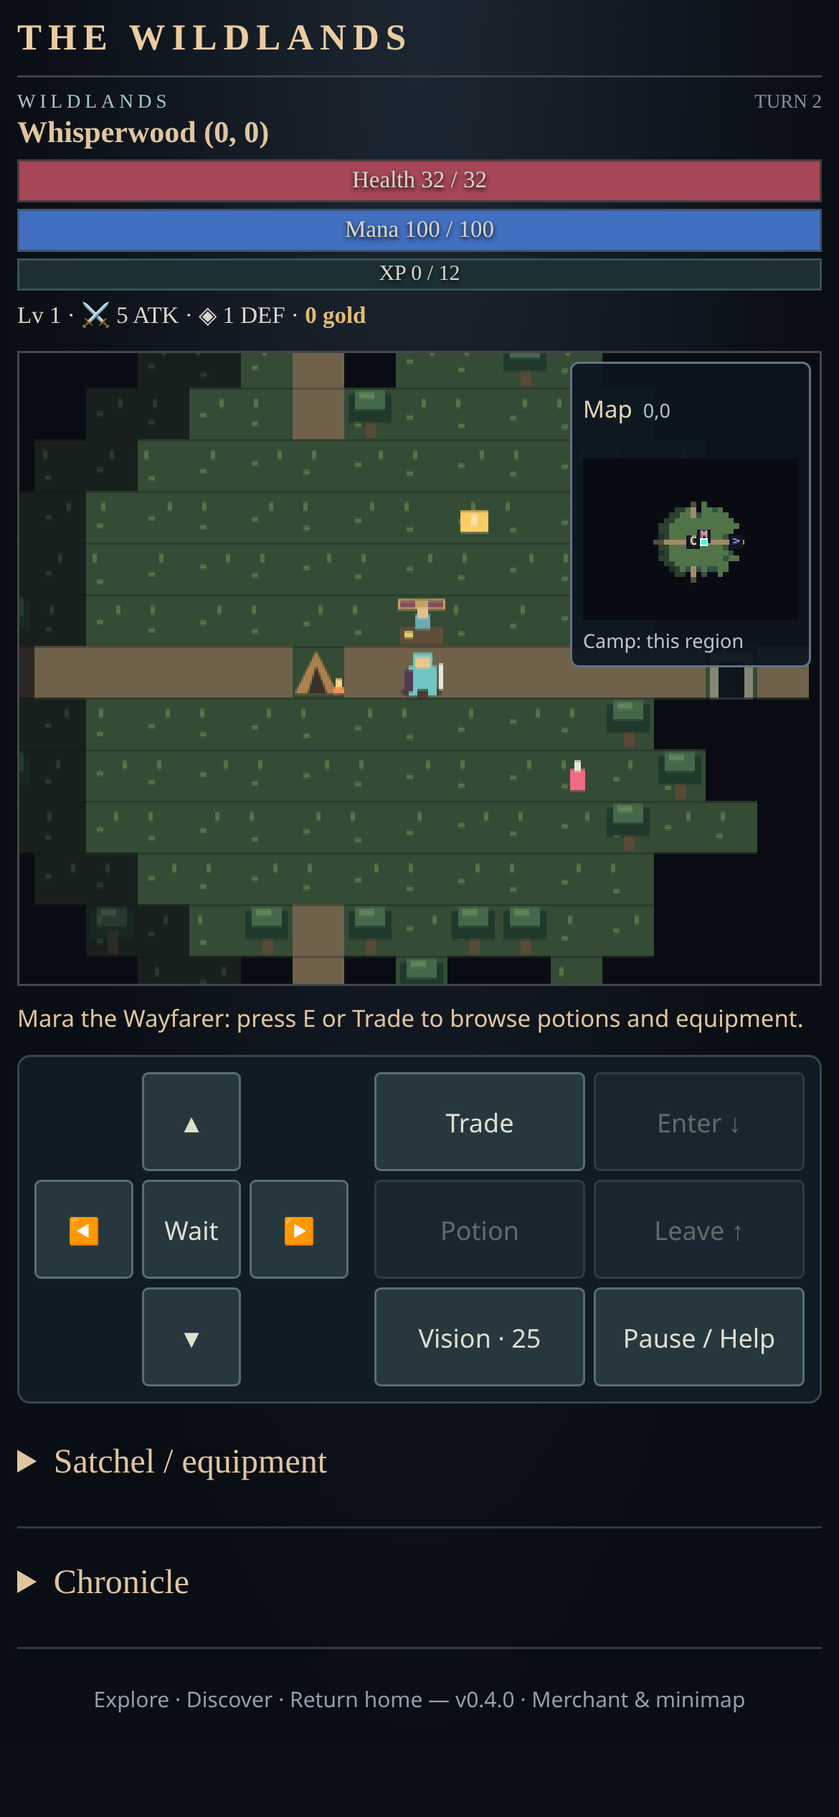
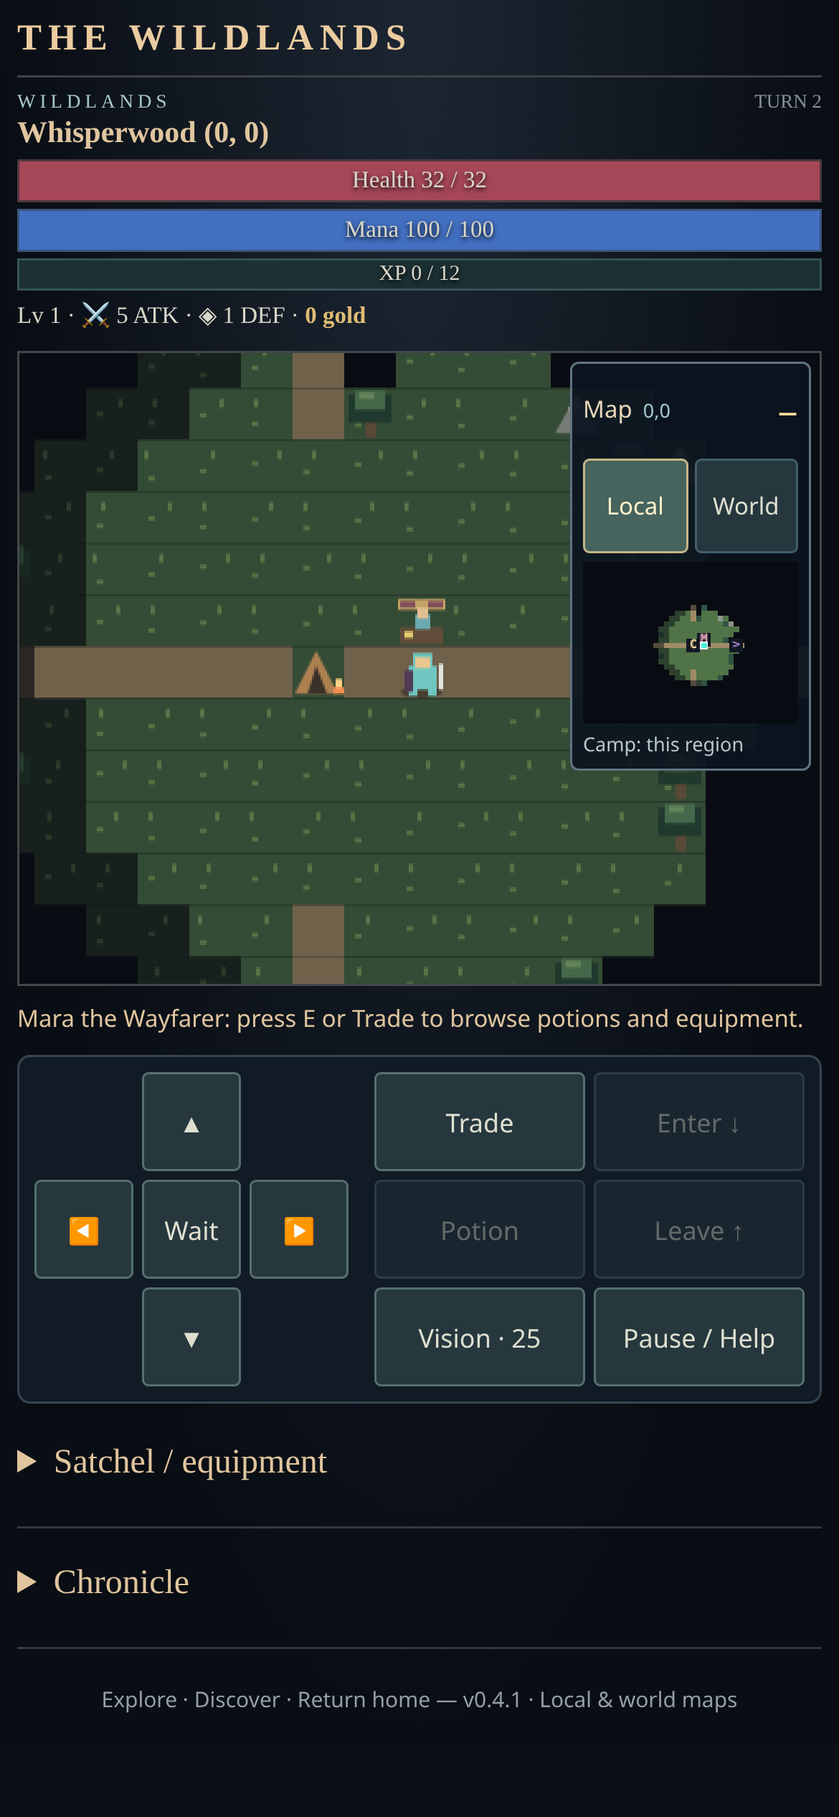
Switch one minimap between local and world views with minimization

diff --git a/src/main.js b/src/main.js
@@ -4,14 +4,14 @@ import { BIOMES } from './game/world.js';
 import { attack, defense, threshold } from './game/items.js';
 import { DungeonScene } from './render/scene.js';
 import './style.css';
-import { drawMinimap, campBearing } from './minimap.js';
+import { drawMinimap, drawWorldMinimap, campBearing } from './minimap.js';
 import { bindTouchControls } from './touch-controls.js';
 
 const scene = new DungeonScene();
 const phaser = new Phaser.Game({ type: Phaser.CANVAS, parent: 'game', width: 768, height: 624, pixelArt: true,
   backgroundColor: '#090c12', scene: [scene], scale: { mode: Phaser.Scale.RESIZE, autoCenter: Phaser.Scale.CENTER_BOTH },
   callbacks: { postBoot() { setTimeout(() => { if (model) scene.setGame(model); }, 0); } } });
-let model = null, paused = true, panel = null;
+let model = null, paused = true, panel = null, mapView = 'local';
 new ResizeObserver(() => {
   const parent = document.getElementById('game');
   if (parent.clientWidth && parent.clientHeight) phaser.scale.resize(parent.clientWidth, parent.clientHeight);
@@ -26,17 +26,17 @@ function modal(title, body, buttons) {
   for (const [text, fn] of buttons) { const b = document.createElement('button'); b.textContent = text; b.onclick = fn; $('overlay').querySelector('.buttons').append(b); }
 }
 function closePanel() { paused = false; panel = null; document.activeElement?.blur(); $('overlay').classList.add('hidden'); syncTouchControls(); }
-function start() { model = new Expedition(); closePanel(); render(); }
+function start() { mapView = 'local'; model = new Expedition(); closePanel(); render(); }
 function help() {
   paused = true; panel = 'help';
-  modal('Beyond the campfire', `<p>Explore an endless, seeded wilderness. Follow trails to new regions. Forests and marshes have different creatures. Lantern Camp at <b>(0, 0)</b> is safe; stand on its tent to store supplies. Mara the merchant waits just northeast of the tent. Stand beside her and press E or Trade. Browsing is free; a purchase costs one turn. Stock is limited for this run. The minimap shows explored terrain only; C marks camp, M the merchant, and arrows mark stairs. Tap Map to hide/show it.</p>
+  modal('Beyond the campfire', `<p>Explore an endless, seeded wilderness. Follow trails to new regions. Forests and marshes have different creatures. Lantern Camp at <b>(0, 0)</b> is safe; stand on its tent to store supplies. Mara the merchant waits just northeast of the tent. Stand beside her and press E or Trade. Browsing is free; a purchase costs one turn. Stock is limited for this run. The minimap shows explored terrain only; C marks camp, M the merchant, and arrows mark stairs. Local and World tabs switch the same minimap: Local shows tiles, World shows one square per visited region. Unvisited regions stay blank. The Map header minimizes/restores the widget; neither operation takes a turn.</p>
     <p><b>On a phone:</b> tap an arrow to move or bump attack. Each tap is one step; holding never repeats. Collect opens storage at camp and becomes Trade beside the merchant. Enter ↓ enters crypts, Leave ↑ retreats on upward stairs, Vision costs 25 Mana, and Wait spends one turn. Swipe elsewhere to scroll. Refreshing ends the run; there is no saving yet.</p><p><b>WASD / arrows</b>: step or bump attack · <b>E</b>: collect / open camp storage<br><b>Enter / &gt;</b>: enter crypt / descend · <b>Q / &lt;</b>: ascend on upward stairs<br><b>M</b>: Mind Vision (25 Mana, reveals through walls for 3 turns)<br><b>H</b>: tonic · <b>.</b>: wait · <b>I</b>: inventory help · <b>Esc</b>: pause</p>
     <p>Crypts have two depths and a dangerous guardian. You may retreat and return: creatures, loot, and exploration are remembered during this run. Crossing regions or using stairs costs one turn, with no enemy action on arrival. Only enemies in the current region act.</p>
     <p>Move or melee to regain 5 Mana. Idle time never advances the world. Death ends the entire run, including stored supplies. No crafting, gathering, or building.</p>`, [[model ? 'Resume' : 'Back', () => model ? closePanel() : menu()]]);
 }
 function menu() {
   paused = true;
-  modal('The Wildlands', '<p>A campfire at your back. An unknown world ahead.</p><p>Discover the Whisperwood and Lantern Marsh, follow forgotten trails, and brave the crypts beneath them. Return with treasure—or leave your story in the dark.</p><p class="hint">Endless exploration · Turn-based combat · Permadeath<br>v0.4.0 — Merchant & minimap</p>', [['New Game', start], ['Instructions', help]]);
+  modal('The Wildlands', '<p>A campfire at your back. An unknown world ahead.</p><p>Discover the Whisperwood and Lantern Marsh, follow forgotten trails, and brave the crypts beneath them. Return with treasure—or leave your story in the dark.</p><p class="hint">Endless exploration · Turn-based combat · Permadeath<br>v0.4.1 — Local & world maps</p>', [['New Game', start], ['Instructions', help]]);
 }
 function storage() {
   if (!model?.atCamp()) return;
@@ -64,12 +64,24 @@ function merchant() {
     row.append(name, description, button); $('shop-offers').append(row);
   }
 }
+function renderMinimap() {
+  if (!model) return;
+  const loc = model.location;
+  if (mapView === 'world') drawWorldMinimap($('minimap'), model);
+  else drawMinimap($('minimap'), model.state, loc);
+  $('minimap-location').textContent = mapView === 'local' && loc.kind === 'crypt' ? `Depth ${loc.depth}` : `${loc.rx},${loc.ry}`;
+  $('camp-bearing').textContent = campBearing(loc);
+  $('map-legend').textContent = mapView === 'world' ? 'Green: forest · Blue: marsh · C: camp · Purple: entrance · Outline: you' : '● You · C Camp · M Merchant · > Down · < Up · R Ruins';
+  $('minimap-panel').setAttribute('aria-labelledby', `map-${mapView}-tab`);
+  for (const tab of document.querySelectorAll('[data-map-view]')) {
+    const selected = tab.dataset.mapView === mapView;
+    tab.setAttribute('aria-selected', String(selected)); tab.tabIndex = selected ? 0 : -1;
+  }
+}
 function render() {
   if (!model) return;
   scene.setGame(model);
-  drawMinimap($('minimap'), model.state, model.location);
-  $('minimap-location').textContent = model.location.kind === 'world' ? `${model.location.rx},${model.location.ry}` : `Depth ${model.location.depth}`;
-  $('camp-bearing').textContent = campBearing(model.location);
+  renderMinimap();
   const s = model.state, p = s.player, loc = model.location;
   const place = loc.kind === 'world' ? `${BIOMES[s.biome].name} (${loc.rx}, ${loc.ry})` : `${s.biome === 'marsh' ? 'Sunken' : 'Rootbound'} Crypt · ${loc.depth}/2`;
   $('stats').innerHTML = `<div class="floor">${loc.kind === 'world' ? 'WILDLANDS' : 'UNDERGROUND'} <span>TURN ${s.turn}</span></div><h2>${escape(place)}</h2><p class="hint location">${s.home ? 'Safe region · Camp (0, 0)' : `Danger ${s.danger}/5 · Camp (0, 0)`}<br>${s.regionsDiscovered} regions discovered · ${s.cryptsCleared} crypts cleared</p>
@@ -124,6 +136,18 @@ bindTouchControls($('touch-controls'), control => {
 const phoneLayout = matchMedia('(max-width: 700px), (pointer: coarse)');
 function setPanels() { for (const id of ['satchel-panel', 'chronicle-panel']) $(id).open = !phoneLayout.matches; }
 phoneLayout.addEventListener('change', setPanels); setPanels();
+for (const tab of document.querySelectorAll('[data-map-view]')) tab.addEventListener('click', event => { mapView = tab.dataset.mapView; renderMinimap(); if (event.detail > 0) tab.blur(); });
+$('map-tabs').addEventListener('keydown', event => {
+  if (!['ArrowLeft','ArrowRight','ArrowUp','ArrowDown','Home','End'].includes(event.key)) return;
+  event.preventDefault(); event.stopPropagation();
+  const next = event.key === 'Home' ? 'local' : event.key === 'End' ? 'world' : mapView === 'local' ? 'world' : 'local';
+  $(`map-${next}-tab`).click(); $(`map-${next}-tab`).focus();
+});
+$('minimap-widget').addEventListener('toggle', () => {
+  const open = $('minimap-widget').open;
+  $('map-collapse-icon').textContent = open ? '−' : '+';
+  $('minimap-widget').querySelector('summary').title = open ? 'Minimize map' : 'Restore map';
+});
 $('minimap-widget').querySelector('summary').addEventListener('click', event => { if (event.detail > 0) document.activeElement?.blur(); });
 $('help').onclick = help;
 window.addEventListener('keydown', event => {

diff --git a/src/minimap.js b/src/minimap.js
@@ -32,3 +32,35 @@ export function drawMinimap(canvas, state, location) {
   ctx.fillStyle = '#4cf3dc'; ctx.fillRect(p.x * sx, p.y * sy, sx, sy);
   canvas.setAttribute('aria-label', `Explored map, ${location.kind === 'crypt' ? `crypt depth ${location.depth}` : `region ${location.rx}, ${location.ry}`}. You are at tile ${p.x}, ${p.y}. ${campBearing(location)}.`);
 }
+
+// Saved regions exclude the active, newly generated region until departure.
+// Overlay that region here without saving or otherwise changing the game.
+export function worldMapCells(game) {
+  const regions = new Map([...game.regions].filter(([id]) => id.startsWith('world:')));
+  if (game.location.kind === 'world') regions.set(game.location.id, game.state);
+  return [...regions.values()].map(region => ({
+    rx: region.rx, ry: region.ry, biome: region.biome, home: region.home,
+    current: region.rx === game.location.rx && region.ry === game.location.ry,
+    entranceKnown: Boolean(region.entrance && region.explored.has(key(region.entrance.x, region.entrance.y))),
+  })).sort((a, b) => a.ry - b.ry || a.rx - b.rx);
+}
+export function worldMapLayout(cells, width = 160, height = 120) {
+  const xs = cells.map(c => c.rx), ys = cells.map(c => c.ry);
+  const minX = Math.min(...xs), maxX = Math.max(...xs), minY = Math.min(...ys), maxY = Math.max(...ys);
+  const size = Math.min(width / Math.max(5, maxX - minX + 3), height / Math.max(5, maxY - minY + 3));
+  return { size, x: width / 2 - (minX + maxX + 1) / 2 * size, y: height / 2 - (minY + maxY + 1) / 2 * size };
+}
+export function drawWorldMinimap(canvas, game) {
+  const cells = worldMapCells(game), ctx = canvas.getContext('2d');
+  ctx.globalAlpha = 1; ctx.fillStyle = '#080c12'; ctx.fillRect(0, 0, canvas.width, canvas.height);
+  if (!cells.length) { canvas.setAttribute('aria-label', 'World map: no visited regions.'); return; }
+  const layout = worldMapLayout(cells, canvas.width, canvas.height), size = layout.size;
+  for (const cell of cells) {
+    const x = layout.x + cell.rx * size, y = layout.y + cell.ry * size;
+    ctx.fillStyle = cell.biome === 'marsh' ? '#47717b' : '#547749'; ctx.fillRect(x + 1, y + 1, Math.max(.5, size - 2), Math.max(.5, size - 2));
+    if (cell.entranceKnown) { ctx.fillStyle = '#d4a5ff'; const mark = Math.max(1, size / 5); ctx.fillRect(x + size - mark - 2, y + 2, mark, mark); }
+    if (cell.home && size >= 10) { ctx.font = `bold ${Math.min(13, size * .6)}px monospace`; ctx.textAlign = 'center'; ctx.textBaseline = 'middle'; ctx.fillStyle = '#ffe0a0'; ctx.fillText('C', x + size / 2, y + size / 2); }
+    if (cell.current) { ctx.strokeStyle = '#4cf3dc'; ctx.lineWidth = Math.min(2, size / 5); ctx.strokeRect(x + 1, y + 1, Math.max(.5, size - 2), Math.max(.5, size - 2)); }
+  }
+  canvas.setAttribute('aria-label', `World map: ${cells.length} visited regions. Current region ${game.location.rx}, ${game.location.ry}${game.location.kind === 'crypt' ? ', underground' : ''}. C marks camp; purple marks discovered entrances. Unvisited regions are blank.`);
+}

diff --git a/tests/merchant-minimap.test.js b/tests/merchant-minimap.test.js
@@ -62,3 +62,35 @@ describe('minimap information', () => {
     expect(g.state).toEqual(before);
   });
 });
+
+import { worldMapCells, worldMapLayout } from '../src/minimap.js';
+describe('world overview', () => {
+  it('adds exactly one square per visited region, including the active region, without duplicates', () => {
+    const g = new Expedition(7); expect(worldMapCells(g)).toHaveLength(1);
+    g.visitWorld(1, 0, { x: 0, y: 15 }); expect(worldMapCells(g)).toHaveLength(2);
+    g.visitWorld(0, 0, CAMP); expect(worldMapCells(g)).toHaveLength(2);
+    expect(worldMapCells(g).filter(c => c.current)).toEqual([expect.objectContaining({ rx: 0, ry: 0, home: true })]);
+    expect(new Expedition(7).regions.size).toBe(0);
+  });
+  it('marks only discovered entrances and does not mutate exploration or generate neighboring regions', () => {
+    const g = new Expedition(8); expect(worldMapCells(g)[0].entranceKnown).toBe(false);
+    const size = g.regions.size, before = structuredClone(g.state);
+    worldMapCells(g); expect(g.state).toEqual(before); expect(g.regions.size).toBe(size);
+    g.state.explored.add('28,15'); expect(worldMapCells(g)[0].entranceKnown).toBe(true);
+  });
+  it('uses the entrance region when underground, without adding a square for each dungeon depth', () => {
+    const g = new Expedition(9); g.visitWorld(-1, 0, { x: 39, y: 15 });
+    g.visitCrypt(-1, 0, 1); g.visitCrypt(-1, 0, 2);
+    const cells = worldMapCells(g); expect(cells).toHaveLength(2);
+    expect(cells.find(c => c.current)).toMatchObject({ rx: -1, ry: 0, biome: 'marsh' });
+  });
+  it('places east right and north above, fitting negative and distant visited coordinates into the same canvas', () => {
+    const cells = [{ rx: -20, ry: -10 }, { rx: 0, ry: 0 }, { rx: 25, ry: 17 }], layout = worldMapLayout(cells);
+    for (const cell of cells) {
+      const x = layout.x + cell.rx * layout.size, y = layout.y + cell.ry * layout.size;
+      expect(x).toBeGreaterThanOrEqual(0); expect(y).toBeGreaterThanOrEqual(0);
+      expect(x + layout.size).toBeLessThanOrEqual(160); expect(y + layout.size).toBeLessThanOrEqual(120);
+    }
+    expect(layout.size).toBeGreaterThan(0);
+  });
+});

diff --git a/tests/browser/merchant.spec.js b/tests/browser/merchant.spec.js
@@ -44,3 +44,21 @@ test('minimap stays fogged, follows the player, switches regions and can be coll
   for (let i = 0; i < 12; i++) await page.keyboard.press('d');
   await expect(page.locator('#minimap-location')).toHaveText('1,0'); await expect(page.locator('#camp-bearing')).toHaveText('Camp: 1 W');
 });
+
+test('one widget switches local/world in place, grows with travel and remembers its tab when minimized', async ({ page }) => {
+  await page.goto('/'); await page.getByRole('button', { name: 'New Game', exact: true }).click();
+  const map = page.locator('#minimap'), world = page.getByRole('tab', { name: 'World', exact: true });
+  await expect(page.locator('#minimap-widget')).toHaveCount(1); await expect(map).toHaveCount(1);
+  const before = await map.boundingBox(); await world.click();
+  await expect(world).toHaveAttribute('aria-selected', 'true');
+  await expect(map).toHaveAttribute('aria-label', /1 visited regions/);
+  expect(await map.boundingBox()).toEqual(before); await expect(page.locator('.floor')).toContainText('TURN 0');
+  await page.getByLabel('Toggle minimap', { exact: true }).click(); await expect(map).not.toBeVisible(); await expect(world).not.toBeVisible();
+  await expect(page.locator('#map-collapse-icon')).toHaveText('+');
+  await page.getByLabel('Toggle minimap', { exact: true }).click(); await expect(world).toHaveAttribute('aria-selected', 'true');
+  for (let i = 0; i < 20; i++) await page.keyboard.press('d');
+  await expect(map).toHaveAttribute('aria-label', /2 visited regions.*Current region 1, 0/);
+  await page.keyboard.press('a'); await expect(map).toHaveAttribute('aria-label', /2 visited regions.*Current region 0, 0/);
+  await world.focus(); await page.keyboard.press('ArrowLeft'); await expect(page.getByRole('tab', { name: 'Local', exact: true })).toHaveAttribute('aria-selected', 'true');
+  await expect(page.locator('.floor')).toContainText('TURN 21'); await expect(map).toHaveAttribute('aria-label', /Explored map/);
+});

diff --git a/index.html b/index.html
@@ -13,10 +13,16 @@
     <section id="stats" aria-label="Character status"></section>
     <div id="game" aria-label="Dungeon map">
       <details id="minimap-widget" open>
-        <summary aria-label="Toggle minimap">Map <span id="minimap-location"></span></summary>
+        <summary aria-label="Toggle minimap" title="Minimize map">Map <span id="minimap-location"></span><span id="map-collapse-icon" aria-hidden="true">−</span></summary>
+        <div id="map-tabs" role="tablist" aria-label="Map view">
+          <button id="map-local-tab" role="tab" aria-controls="minimap-panel" aria-selected="true" data-map-view="local">Local</button>
+          <button id="map-world-tab" role="tab" aria-controls="minimap-panel" aria-selected="false" tabindex="-1" data-map-view="world">World</button>
+        </div>
+        <div id="minimap-panel" role="tabpanel" aria-labelledby="map-local-tab">
         <canvas id="minimap" width="160" height="120" role="img" aria-label="Explored region map"></canvas>
-        <p class="map-legend">● You · C Camp · M Merchant<br>&gt; Down · &lt; Up · R Ruins</p>
+        <p id="map-legend" class="map-legend">● You · C Camp · M Merchant<br>&gt; Down · &lt; Up · R Ruins</p>
         <p id="camp-bearing"></p>
+        </div>
       </details>
     </div>
     <p id="latest-event" role="status" aria-live="polite"></p>
@@ -44,7 +50,7 @@
       <p class="hint">WASD / Arrows: step or attack<br>E: collect / camp chest · H: potion<br>M: Mind Vision · Q: ascend<br>.: wait · Enter: enter / descend<br>I: inventory · Esc: pause</p>
     </aside>
   </main>
-  <footer>Explore · Discover · Return home — v0.4.0 · Merchant &amp; minimap</footer>
+  <footer>Explore · Discover · Return home — v0.4.1 · Local &amp; world maps</footer>
 </div>
 <div id="overlay"></div>
 <script type="module" src="/src/main.js"></script>

diff --git a/tests/browser/mobile.spec.js b/tests/browser/mobile.spec.js
@@ -84,3 +84,16 @@ test('phone can browse the merchant and toggle the minimap without extra turns',
   await expect(page.locator('.floor')).toContainText('TURN 2');
   await page.screenshot({ path: 'test-results/merchant-minimap-phone.png', fullPage: true });
 });
+
+test('phone switches the same minimap and minimizes it to a header without using a turn', async ({ page }) => {
+  await begin(page); const map = page.locator('#minimap');
+  await page.getByRole('tab', { name: 'World', exact: true }).tap();
+  await expect(map).toHaveAttribute('aria-label', /1 visited regions/);
+  await page.getByLabel('Toggle minimap', { exact: true }).tap();
+  await expect(map).not.toBeVisible(); await expect(page.getByRole('tab', { name: 'World', exact: true })).not.toBeVisible();
+  const collapsed = await page.locator('#minimap-widget').boundingBox(); expect(collapsed.height).toBeLessThan(60);
+  await page.getByLabel('Toggle minimap', { exact: true }).tap();
+  await expect(page.getByRole('tab', { name: 'World', exact: true })).toHaveAttribute('aria-selected', 'true');
+  await page.getByRole('tab', { name: 'Local', exact: true }).tap(); await expect(map).toHaveAttribute('aria-label', /Explored map/);
+  await expect(page.locator('.floor')).toContainText('TURN 0');
+});

diff --git a/src/style.css b/src/style.css
@@ -64,3 +64,11 @@ summary{font:18px Georgia,serif;color:#e0c59e;cursor:pointer;padding:8px 0}
 }
 
 #minimap-widget summary{touch-action:manipulation;user-select:none;-webkit-user-select:none;-webkit-tap-highlight-color:transparent}
+
+#map-tabs{display:grid;grid-template-columns:1fr 1fr;gap:3px;margin-bottom:4px}
+#map-tabs button{font:11px system-ui;min-width:0;padding:4px 2px;border-color:#445e6d}
+#map-tabs button[aria-selected=true]{background:#46635d;border-color:#c6b78a;color:#fff0cb}
+#minimap-widget summary{display:flex;align-items:center;gap:5px}
+#map-collapse-icon{margin-left:auto;font:bold 17px system-ui;color:#ffe0a0}
+#minimap-location{float:none;overflow:hidden;text-overflow:ellipsis;white-space:nowrap}
+@media(max-width:700px),(pointer:coarse){#map-tabs button{min-height:44px;min-width:44px;font-size:11px;padding:3px 1px}}

diff --git a/README.md b/README.md
@@ -4,7 +4,7 @@ An original, strictly turn-based exploration game in Phaser 3 and JavaScript. Se
 
 **Play:** https://flicktrey-oss.github.io/DungeonCrawler/
 
-Look for **v0.4.0 — Merchant & minimap** on the title screen. The source is currently on `feature/playable-roguelike`, pending merge to `main`. The previous dungeon-only game remains in Git history and in the original `Game` simulation for regression tests.
+Look for **v0.4.1 — Local & world maps** on the title screen. The source is currently on `feature/playable-roguelike`, pending merge to `main`. The previous dungeon-only game remains in Git history and in the original `Game` simulation for regression tests.
 
 ## Play locally
 
@@ -69,7 +69,7 @@ npm run test:browser
 CHROMIUM_PATH=/usr/bin/chromium npm run test:browser
 ```
 
-The 41 simulation tests cover original combat/turn rules plus seeded world connectivity, biome spawn validity, negative coordinates, world transitions, inactive-region freezing, persistent crypt returns, guardian rewards, arrival safety, camp storage, and permadeath. Twelve browser tests exercise desktop input, touch movement, canceled gestures, multiple fingers, held touches, phone layouts, Mana, storage, region travel, and crypt entry/exit. Phone tests use Chromium touch emulation, not a physical iPhone. The expected large-bundle warning comes from bundled Phaser.
+The 45 simulation tests cover original combat/turn rules plus seeded world connectivity, biome spawn validity, negative coordinates, world transitions, inactive-region freezing, persistent crypt returns, guardian rewards, arrival safety, camp storage, and permadeath. Fourteen browser tests exercise desktop input, touch movement, canceled gestures, multiple fingers, held touches, phone layouts, Mana, storage, region travel, and crypt entry/exit. Phone tests use Chromium touch emulation, not a physical iPhone. The expected large-bundle warning comes from bundled Phaser.
 
 ## Architecture
 
@@ -115,6 +115,12 @@ Mara the Wayfarer stands **two tiles east and one north of the tent**. Her stall
 
 Browsing is free and pauses input; a successful purchase spends one turn and adds the item to your satchel. Equip or drink it separately. Unaffordable or sold-out purchases are disabled; rejected purchases never spend gold or turns. Stock persists across travel and resets on a new run. There is no selling or restocking in this version.
 
-The **minimap in the map’s upper-right corner** shows the entire current region or crypt depth, with unexplored tiles hidden and remembered terrain dimmed. Your marker is turquoise with a white border. Known features use **C** for camp, **M** for merchant, **R** for ruins, and **> / <** for entrances and stairs. It never shows enemies or loose items. Region coordinates and a bearing toward camp help you navigate the overworld; underground, return to the surface first. Tap/click **Map** to hide or show it without taking a turn. This is a local region map, not a whole-world atlas.
+The **minimap in the map’s upper-right corner** shows the entire current region or crypt depth, with unexplored tiles hidden and remembered terrain dimmed. Your marker is turquoise with a white border. Known features use **C** for camp, **M** for merchant, **R** for ruins, and **> / <** for entrances and stairs. It never shows enemies or loose items. Region coordinates and a bearing toward camp help you navigate the overworld; underground, return to the surface first. Tap/click **Map** to hide or show it without taking a turn. The Local tab shows tiles in this region; the World tab shows the visited regions of your expedition.
 
 Validation includes earning gold through actual UI movement, collecting it, buying a tonic, checking gold/stock, touch trading, minimap fog, region/depth changes, and free minimap toggling.
+
+## Two views in one minimap (v0.4.1)
+
+Use **Local** and **World** tabs inside the existing minimap widget. They replace the same canvas rather than adding another panel. Local shows explored tiles within the current region or crypt depth. World shows **one square per visited outdoor region**: green for forest, blue for marsh, C for camp, a turquoise outline for your current region, and purple corners for discovered entrances. North is up; east is right. Newly entered regions appear automatically, repeated visits do not duplicate squares, and unvisited regions stay blank. The view scales to fit the discovered world. Underground, it marks the region containing your entrance rather than adding dungeon floors as world squares.
+
+Tap/click the **Map −** header to minimize the entire widget to its header, and **Map +** to restore it. The selected tab is retained while minimized and across travel. Tabs and minimizing never spend turns, reveal terrain, or move enemies. On a keyboard, Tab focuses the active tab and arrow keys switch tabs without moving the player. A new run starts on Local with a fresh world overview. No cross-session saving was added.
